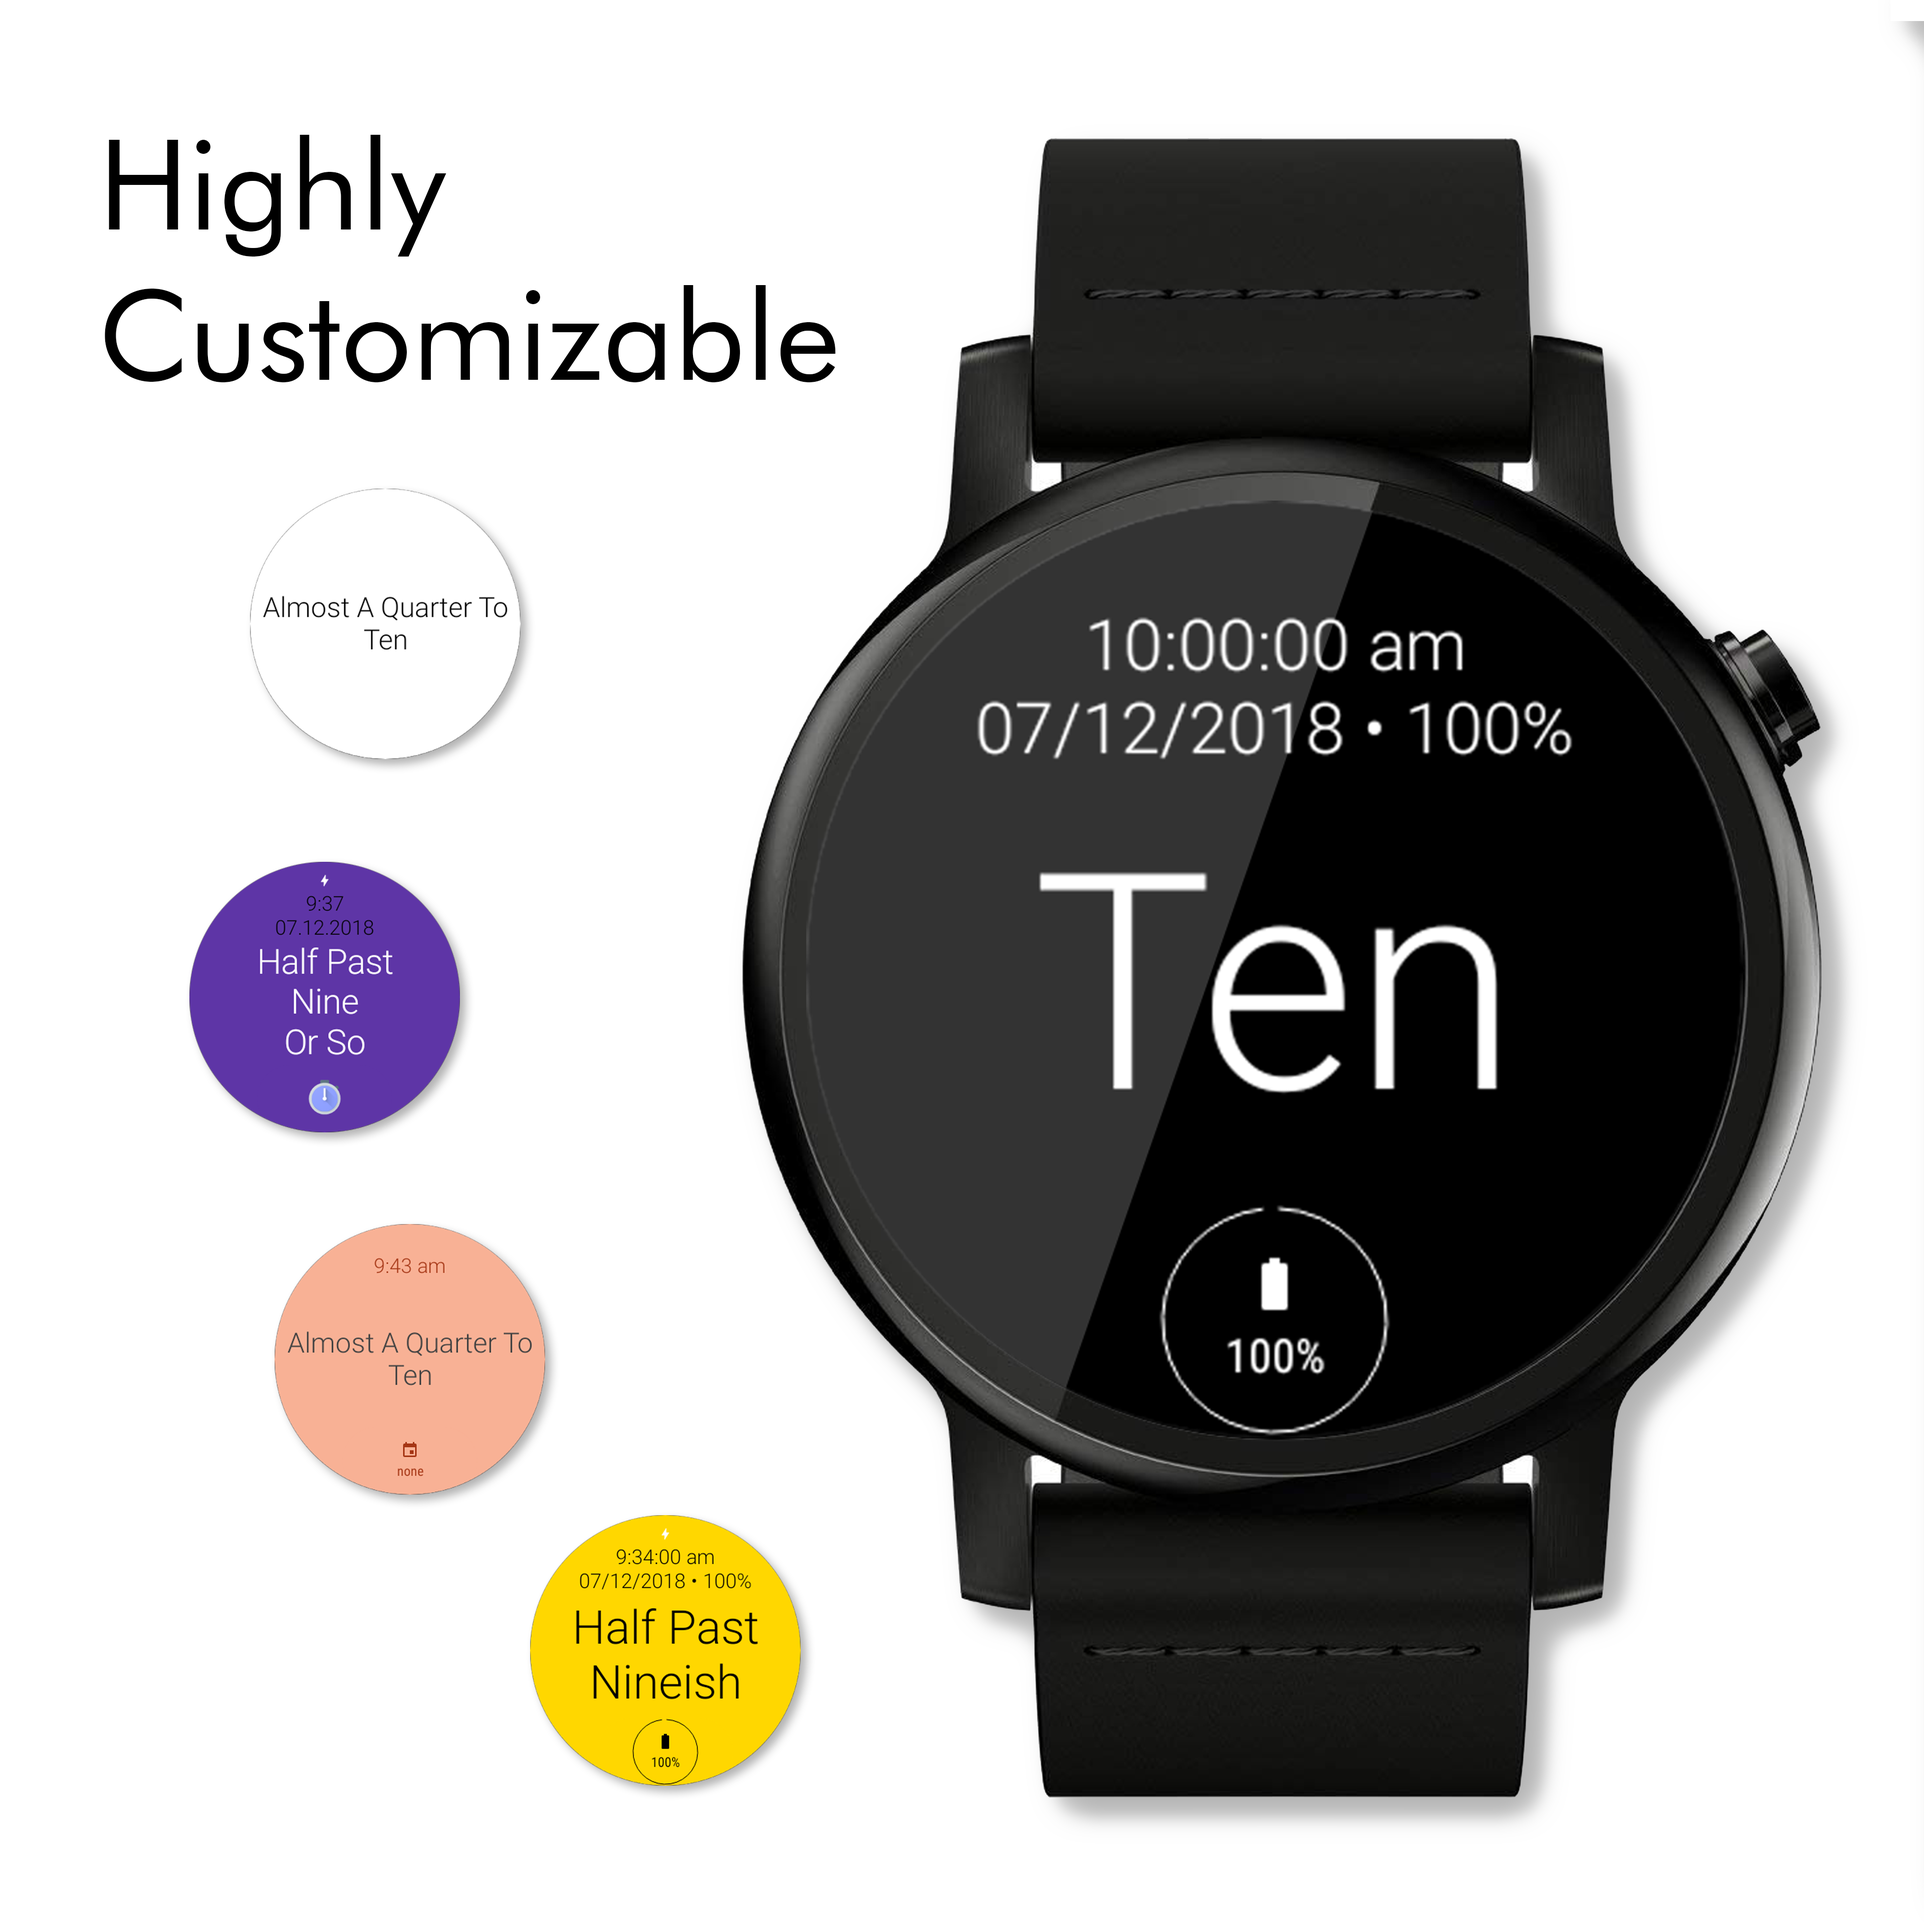
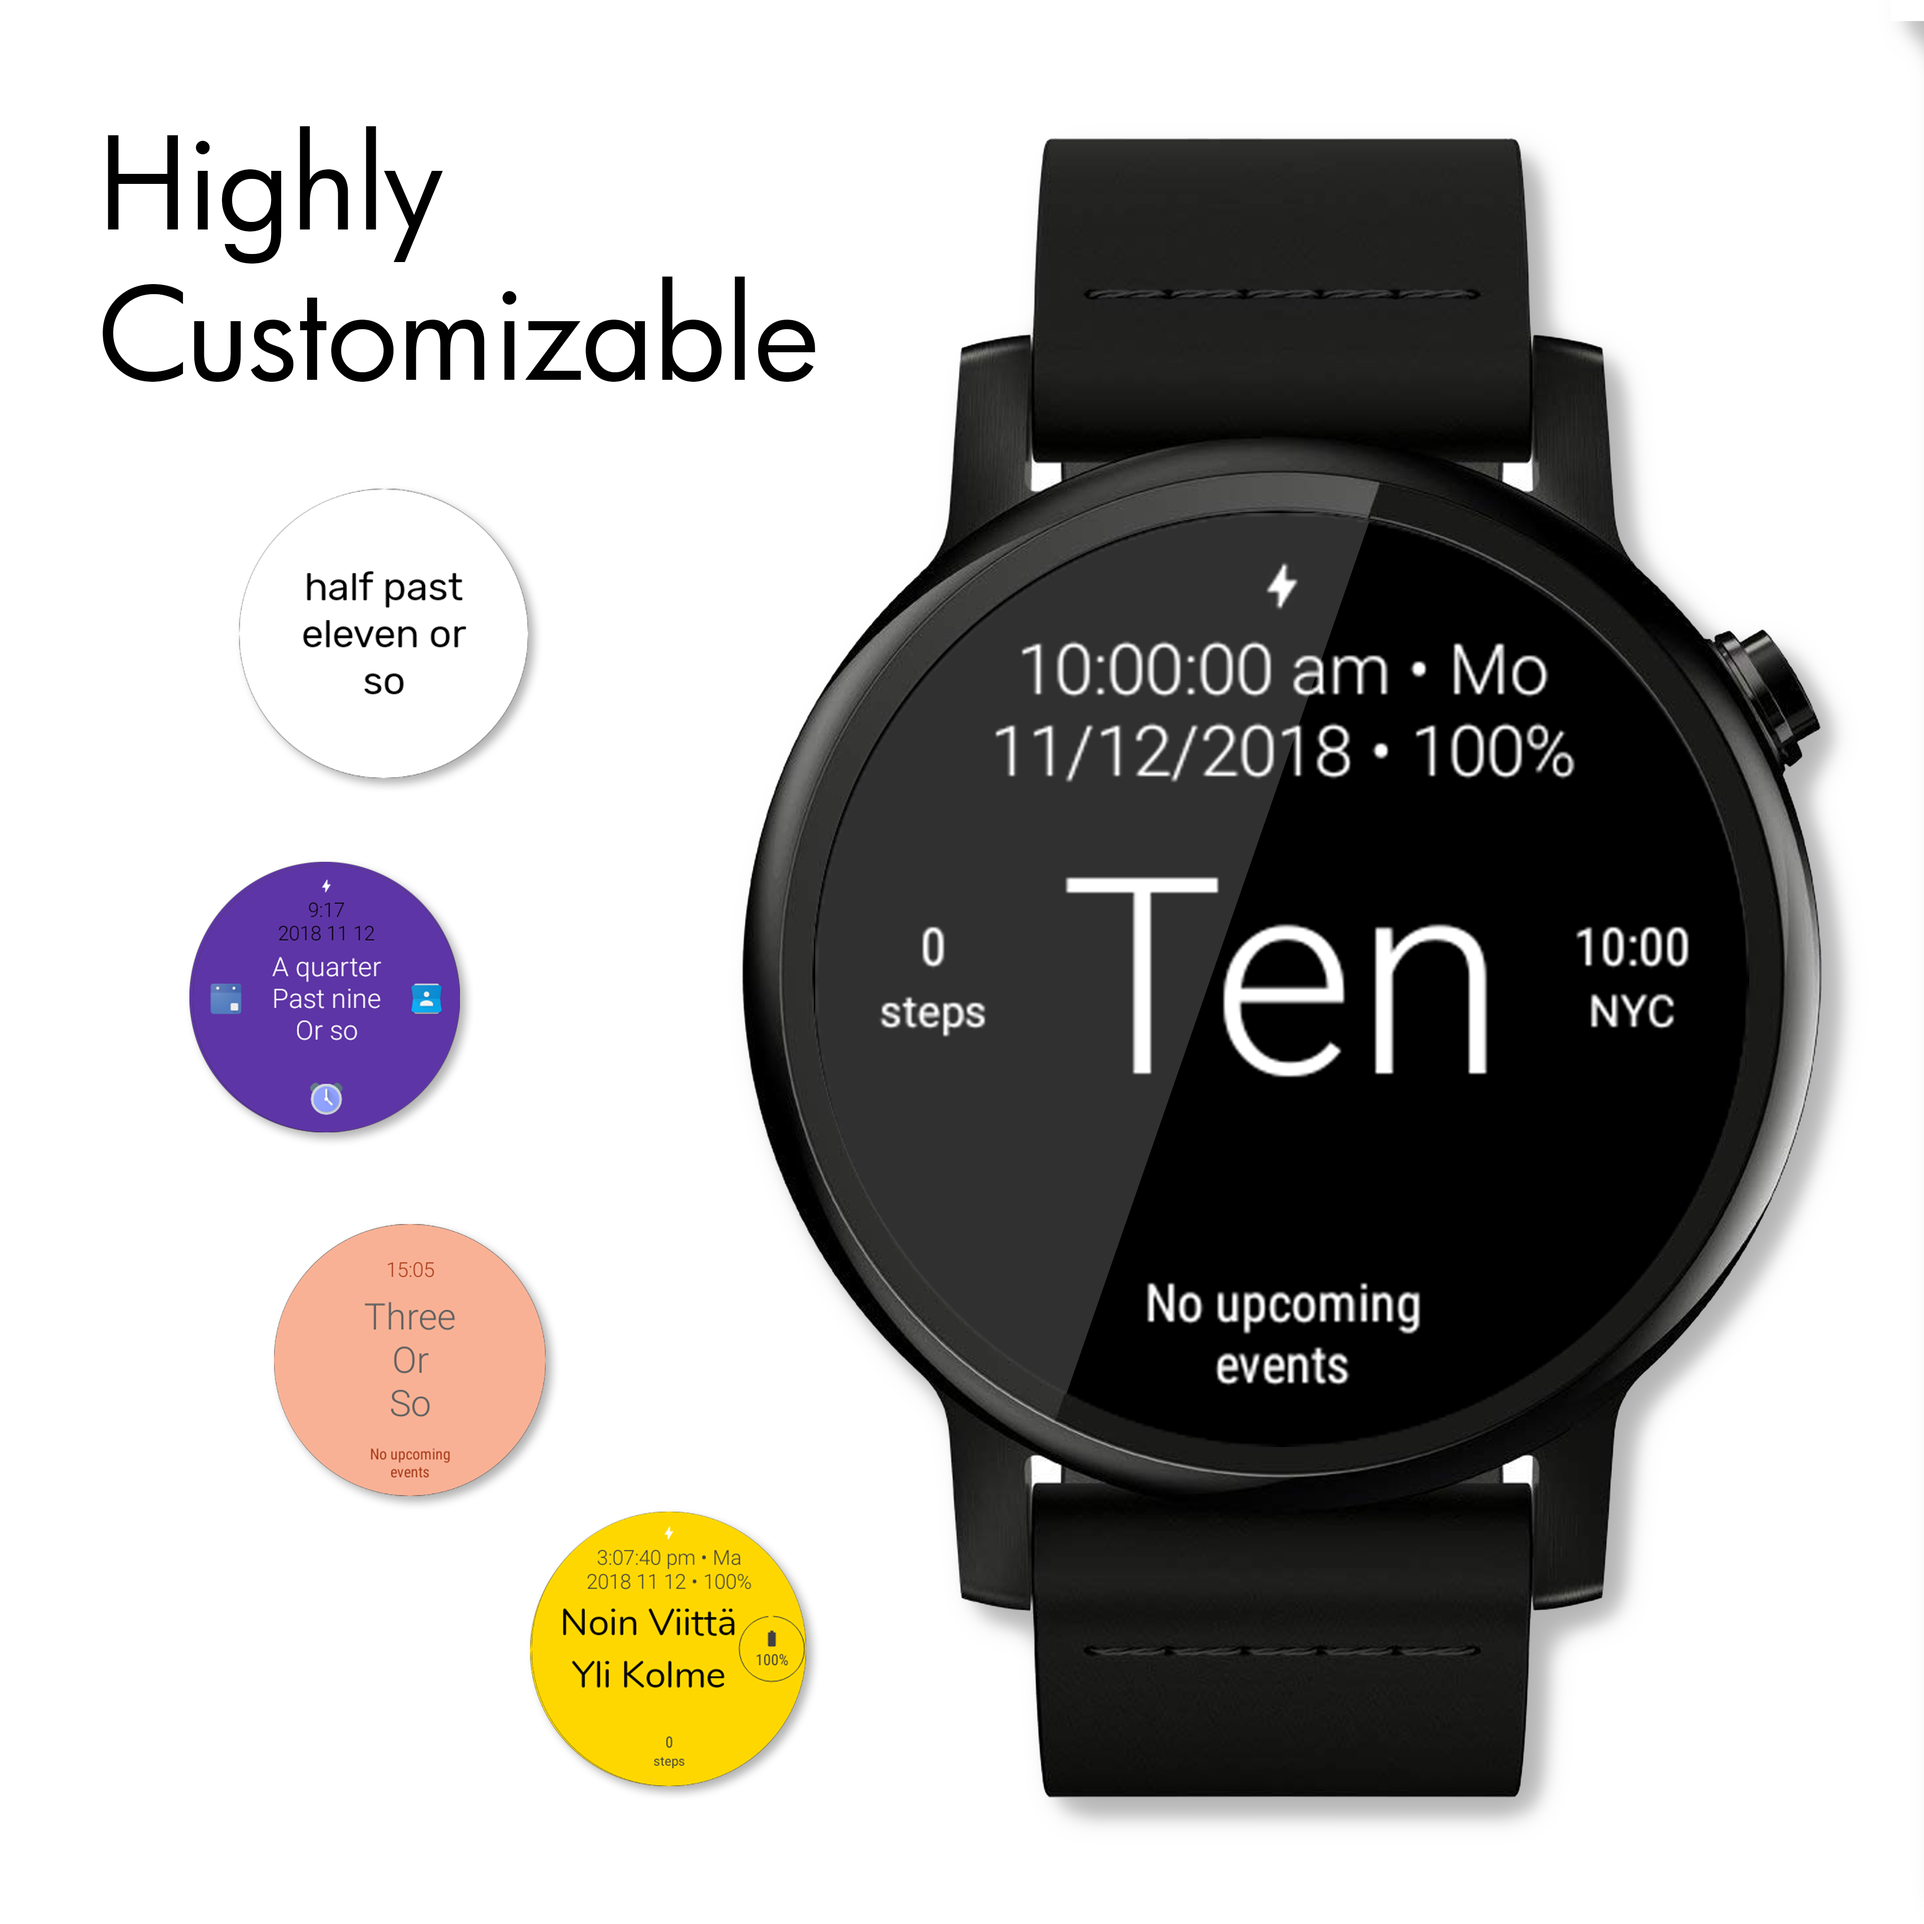
Updated readme

diff --git a/README.md b/README.md
@@ -12,8 +12,6 @@ Twelveish is a unique Wear OS (Android Wear) Watch Face that displays the **appr
 
 <img src="https://raw.githubusercontent.com/LayoutXML/Twelveish/master/screenshots/Twelveish-3.png" width="256" alt="Twelveish Watch Face for Wear OS (Android Wear) - Screenshot3" align="left">
 
-<img src="https://raw.githubusercontent.com/LayoutXML/Twelveish/master/screenshots/Twelveish-4.png" width="256" alt="Twelveish Watch Face for Wear OS (Android Wear) - Screenshot4" align="left">
-
 <img src="https://raw.githubusercontent.com/LayoutXML/Twelveish/master/screenshots/Twelveish-5.png" width="256" alt="Twelveish Watch Face for Wear OS (Android Wear) - Screenshot5">
 
 ### [Download on the Google Play store](https://play.google.com/store/apps/details?id=com.layoutxml.twelveish).
@@ -22,17 +20,19 @@ Twelveish is a unique Wear OS (Android Wear) Watch Face that displays the **appr
 
 In addition to what has been mentioned in the description above, Twelveish offers:
 
-* Over 30 background colors
-* Over 30 text colors
-* 1 Android complication for all Wear OS versions and Android Wear versions 2.0 and greater. This complication is wide by default but can also be round
+* Over 30 background colors to choose from
+* Over 30 main and secondary colors both for active mode and ambient
+* 3 complications (2 round, 1 long or round)
+* Option to disable tapping on complications - useful if you constantly open them by accident
 * 16 different date format combinations
-* 5 capitalisation options
-* 12 and 24 hour clock formats. Separate for word and digital clocks
-* Options to show/hide almost any information
-* 6 languages (English, Finnish, German, Hungarian, Lithuanian and Russian)
-* 10 fonts
-* Support for chinned displays (aka flat tire)
-* Support for square displays
+* 5 capitalization options
+* 12 and 24 hour digital and word clock formats
+* show/hide almost any info (digital and word clocks, date, battery percentage, complication) with different combinations both for active and ambient modes
+* 7 languages (English, Finnish, German, Hungarian, Italian, Lithuanian and Russian)
+* 11 fonts that are compatible with all languages
+* Wear OS (Android Wear) 1.5 and above support
+* Chin (flat tire) support
+* Square screen support
 
 Most of the settings above can be set to be different for active and ambient modes, making your watch face even more unique.
 
